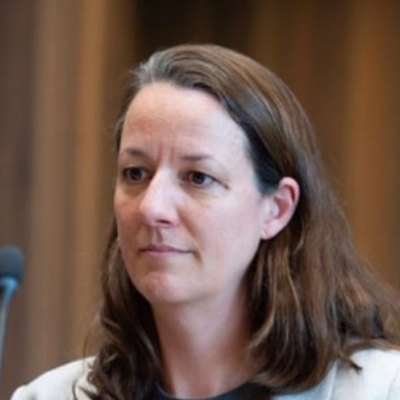
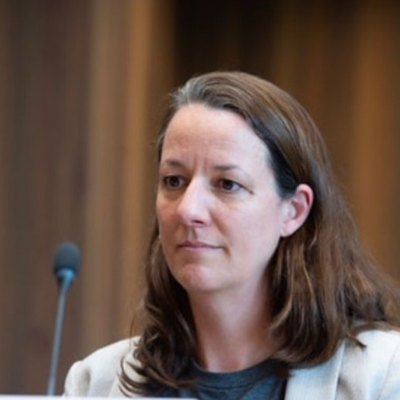
Add centred photos for all resource persons
Claude-Session: https://claude.ai/code/session_01Y1EVZrkmo6mgAmPzX47wKb

diff --git a/assets/js/data.js b/assets/js/data.js
@@ -313,7 +313,7 @@ window.HUB_DATA = {
       "org": "ILO",
       "unit": "STREAM",
       "linkedin": "https://www.linkedin.com/in/momin-badarna/",
-      "photo": null
+      "photo": "assets/images/people/momin-badarna.jpg"
     },
     {
       "name": "Mariano Brener",
@@ -328,14 +328,14 @@ window.HUB_DATA = {
       "org": "ILO",
       "tbc": true,
       "linkedin": "https://www.linkedin.com/in/umberto-cattaneo-phd-69564710b/",
-      "photo": null
+      "photo": "assets/images/people/umberto-cattaneo.jpg"
     },
     {
       "name": "Samia Kazi-Aoul",
       "sortKey": "Kazi-Aoul",
       "org": "ILO",
       "linkedin": "https://www.linkedin.com/in/samia-kazi-aoul-4a47b31/",
-      "photo": null
+      "photo": "assets/images/people/samia-kazi-aoul.jpg"
     },
     {
       "name": "Nupur Kukrety",
@@ -343,14 +343,14 @@ window.HUB_DATA = {
       "org": "UNICEF",
       "tbc": true,
       "linkedin": "https://www.linkedin.com/in/nupur-kukrety-19253a6/",
-      "photo": null
+      "photo": "assets/images/people/nupur-kukrety.jpg"
     },
     {
       "name": "Luca Pellerano",
       "sortKey": "Pellerano",
       "org": "ILO",
       "linkedin": "https://www.linkedin.com/in/luca-pellerano-3a4b6a90/",
-      "photo": null
+      "photo": "assets/images/people/luca-pellerano.jpg"
     },
     {
       "name": "Mattia Polvanesi",
@@ -358,7 +358,7 @@ window.HUB_DATA = {
       "org": "UNHCR",
       "tbc": true,
       "linkedin": "https://www.linkedin.com/in/mattia-polvanesi-a2464a58/",
-      "photo": null
+      "photo": "assets/images/people/mattia-polvanesi.jpg"
     },
     {
       "name": "Lou Tessier",
@@ -366,7 +366,7 @@ window.HUB_DATA = {
       "org": "ILO",
       "tbc": true,
       "linkedin": "https://www.linkedin.com/in/loutessier/",
-      "photo": null
+      "photo": "assets/images/people/lou-tessier.jpg"
     },
     {
       "name": "Clara Van Panhuys",
@@ -380,7 +380,7 @@ window.HUB_DATA = {
       "sortKey": "Xiao",
       "org": "ILO",
       "linkedin": "https://www.linkedin.com/in/liyuanxiao/",
-      "photo": null
+      "photo": "assets/images/people/liyuan-xiao.jpg"
     }
   ],
   "participants": []
